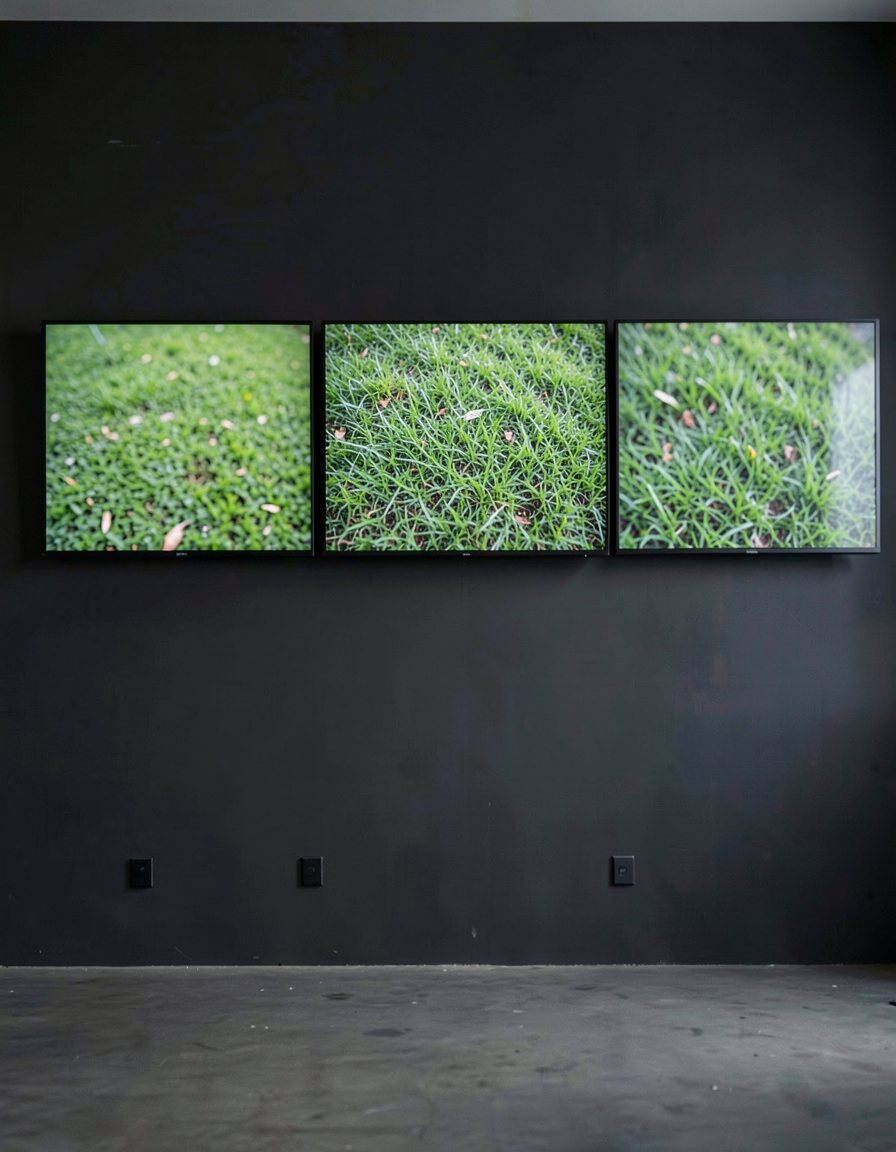
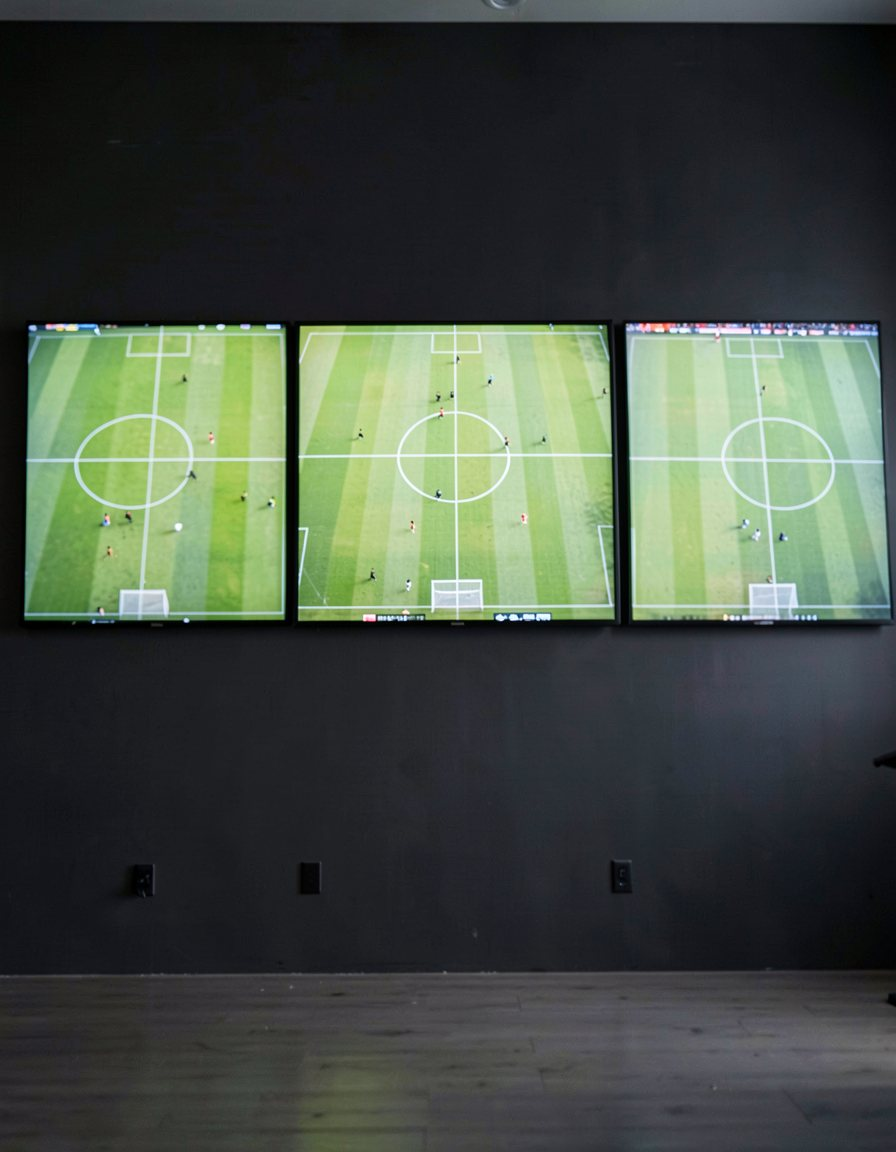
Chapter seven opens on three matches, not three lawns
The opening picture asked for "green grass from a high camera position" and
got three televisions showing three macro shots of a lawn, under a line that
says three matches are running. Same class of fault as the empty stadium
under "it is nil-one, seventy minutes have gone": the picture contradicted
the sentence, and no check can see that.

The markings are what make a pitch a pitch. Naming them — the centre circle,
the halfway line, both penalty areas, tiny distant figures — fixed it in one
render. Looked at on a phone afterwards, which is the only way this was ever
going to be caught.

Claude-Session: https://claude.ai/code/session_01LAut6p3jRUP7gnRaBX53oZ

diff --git a/sw.js b/sw.js
@@ -15,7 +15,7 @@
 /* BEGIN GENERATED — tools/build-sw.py */
 // Written by tools/build-sw.py from the files index.html actually reaches,
 // plus each pack's runtime data. Do not edit by hand — run the tool.
-const VERSION = 'vd4792d502b';
+const VERSION = 'v18ea49165b';
 const APP_CACHE = `fortell-app-${VERSION}`;
 const TILE_CACHE = `fortell-tiles-${VERSION}`;
 const TILE_LIMIT = 400;
